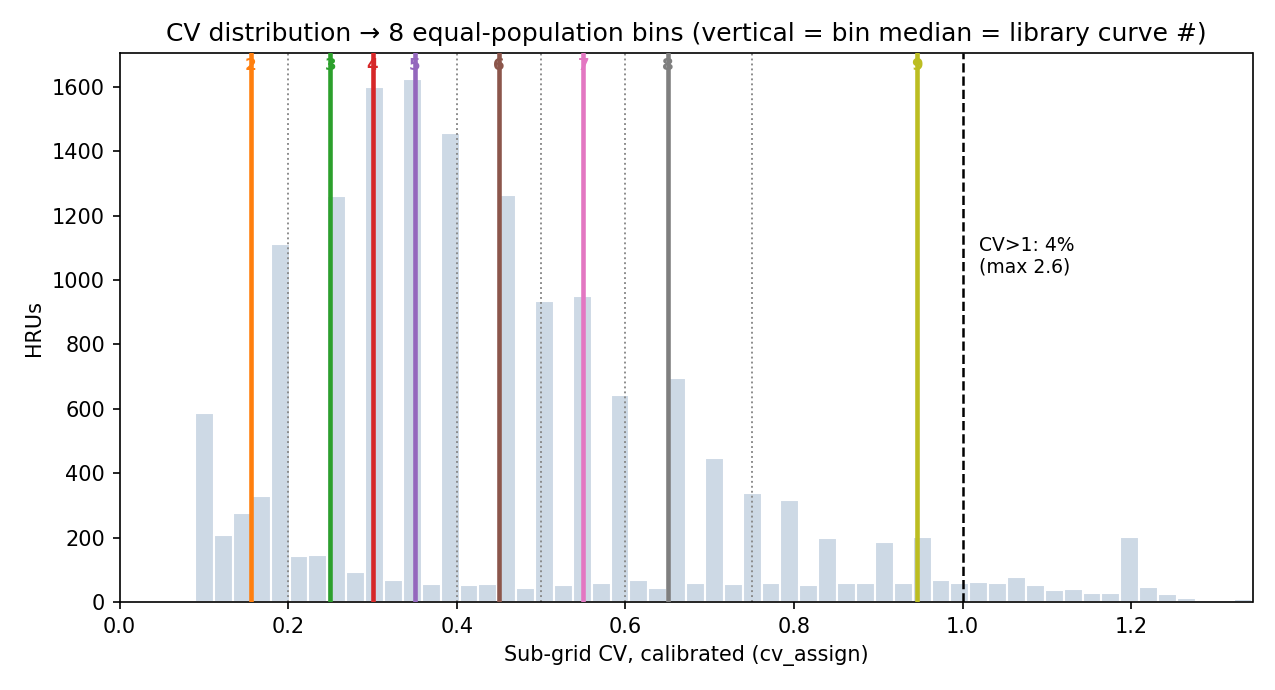
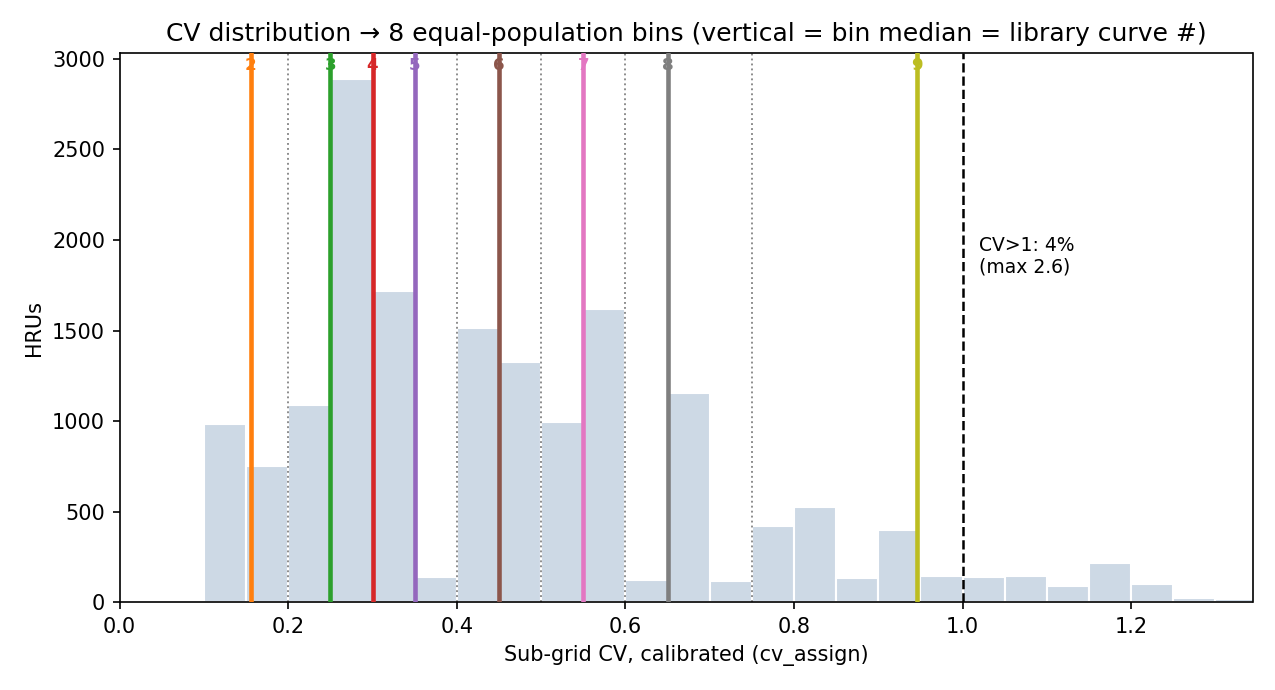
docs(figures): coarsen cv_binning histogram to 0.05 bins
cv_assign is heavily clustered by the calibration quantile-map (~3.3k unique
values in 16.8k HRUs), so fine bins render a sawtooth. 0.05 smooths the display
while still resolving the 8 bin medians (spaced ~0.05-0.10 apart).

diff --git a/scripts/render_snarea_figures.py b/scripts/render_snarea_figures.py
@@ -417,7 +417,12 @@ def fig_cv_binning(paths: dict, out_path: Path, ndepl_cv: int = 8) -> None:
     xmax = float(min(cv.max(), np.quantile(cv, 0.999)))
 
     fig, ax = plt.subplots(figsize=(8.5, 4.6))
-    ax.hist(cv, bins=np.linspace(0, xmax, 61), color="#cdd9e5", edgecolor="white", zorder=1)
+    # Fixed 0.05-wide histogram bins: cv_assign is heavily clustered (the
+    # calibration quantile-map lands many HRUs on repeated values), so a finer
+    # bin resonates into a sawtooth. 0.05 smooths the display while still
+    # resolving the 8 bin medians (spaced ~0.05-0.10 apart).
+    hist_bins = np.arange(0, xmax + 0.05, 0.05)
+    ax.hist(cv, bins=hist_bins, color="#cdd9e5", edgecolor="white", zorder=1)
     ymax = ax.get_ylim()[1]
     for e in edges[1:-1]:  # interior equal-population bin edges
         ax.axvline(e, color="#888", ls=":", lw=0.9, zorder=2)